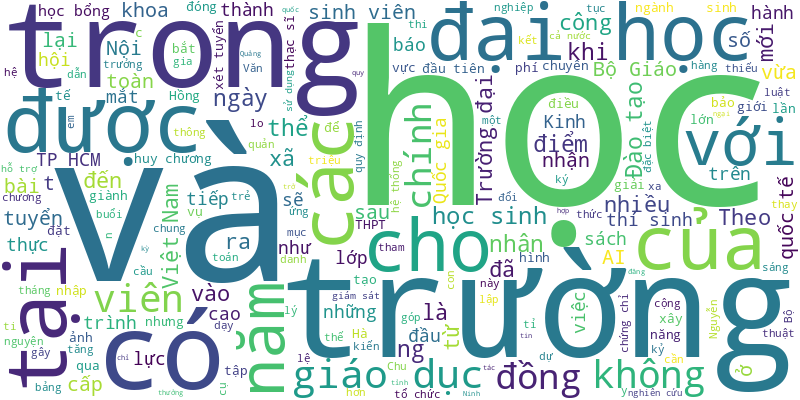
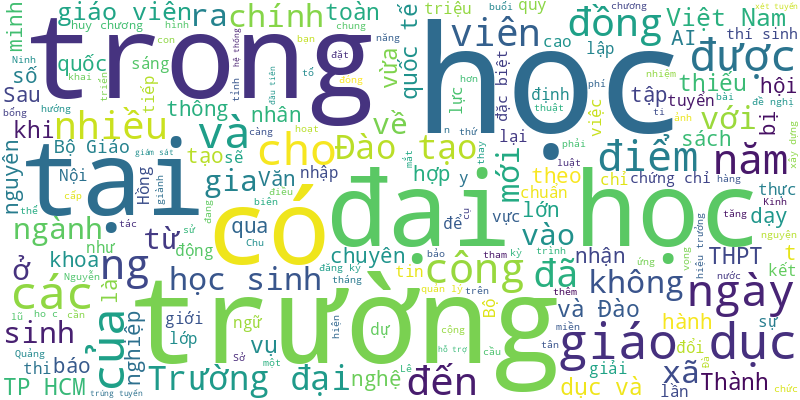
🍀 = 80%

diff --git a/README.md b/README.md
@@ -1,6 +1,20 @@
 # Tuoi Tre RSS 
 
 ## Giáo dục 
+- Trong 3 ngày từ khi báo Tuổi Trẻ khởi động chương trình học bổng Tiếp sức đến trường năm 2025, không khí thật sôi động khi nhiều trường đại học ngay lập tức liên hệ báo để ủng hộ tân sinh viên nghèo.
+- Bí thư Thành ủy Đà Nẵng Nguyễn Văn Quảng cho biết hiện thành phố đang triển khai xây dựng 6 trường cho các xã miền núi giáp biên giới, và đề nghị ngành giáo dục cần đến học tập mô hình quản lý của Trường Hy Vọng.
+- Thứ trưởng Bộ Giáo dục và Đào tạo Hoàng Minh Sơn đã trao quyết định công nhận tiến sĩ Lê Minh Chiến giữ chức hiệu trưởng Trường đại học Đà Lạt nhiệm kỳ 2024-2029.
+- Ngày 8-8, ông Nguyễn Văn Hiếu, giám đốc Sở Giáo dục và Đào tạo TP.HCM, đã có chỉ đạo về dạy thêm, học thêm trong năm học mới 2025-2026.
+- Ngày 8-8, chàng trai vàng Lê Kiến Thành đã trở về Quy Nhơn trong sự chào đón nồng nhiệt của lãnh đạo Sở Giáo dục và Đào tạo tỉnh Gia Lai, các thầy cô Trường THPT chuyên Lê Quý Đôn và bè bạn.
+- Vụ Giáo dục đại học (Bộ Giáo dục và Đào tạo) đã gửi thông tin về minh chứng chứng chỉ ngoại ngữ quốc tế không phù hợp, để các trường đại học có thí sinh đăng ký biết.
+- Các ngành dược học, y học cổ truyền, y khoa, công nghệ thông tin... của Trường đại học Kinh Bắc (Bắc Ninh) vừa bị xử phạt hành chính 30 triệu đồng/ngành và đình chỉ hoạt động đào tạo trong 9 tháng.
+- Các trường đại học (ĐH) lớn tại khu vực miền Trung - Tây Nguyên đã cùng nhau ký kết hợp tác thành lập Mạng lưới các cơ sở giáo dục đại học tại miền Trung - Tây Nguyên vào ngày 24-7-2025 vừa qua tại Đại học Duy Tân.
+- Càng đến gần thời điểm các trường công bố điểm chuẩn trúng tuyển, nhiều dự đoán khác nhau về điểm chuẩn được đưa ra, trong đó có nhiều tổ hợp, nhiều ngành sẽ có biến động về điểm trúng tuyển.
+- Không phải công nghệ cao hay nguyên liệu đắt tiền, một ý tưởng khởi nghiệp từ chính phế phẩm nông nghiệp - vỏ thanh long - lại đang mở ra hướng đi mới cho ngành nông nghiệp bền vững.
+- Sau sáp nhập, TP.HCM thiếu 4.865 giáo viên từ mầm non đến THPT. Đặc biệt, tình trạng thừa - thiếu giáo viên cục bộ vẫn còn tồn tại.
+- Sau trận lũ lịch sử, trường học ở xã biên giới Mỹ Lý, Nghệ An bên dòng Nậm Nơn như bị xóa sổ hoàn toàn trước thềm năm học mới.
+- Hội nghị triển khai phong trào 'Cả nước thi đua đổi mới sáng tạo và chuyển đổi số' và 'Bình dân học vụ số' ngành giáo dục diễn ra ngày 7-8.
+- Nhiều trường đại học lo ngại chứng chỉ quốc tế thí sinh khai báo trên hệ thống chung của Bộ GD-ĐT không hợp lệ sẽ ảnh hưởng lớn đến công tác tuyển sinh của trường.
 - Theo quy định của Trường đại học Kinh tế - Luật (Đại học Quốc gia TP.HCM), thí sinh có chứng chỉ IELTS 5.0 trở lên đăng ký xét tuyển vào trường sẽ được cộng điểm thưởng.
 - Ngày 7-8, tỉnh Quảng Ninh tổ chức tuyên dương, khen thưởng cho học sinh và giáo viên dạy học sinh đoạt huy chương đồng tại kỳ thi Olympic tin học quốc tế lần thứ 37, diễn ra từ ngày 27-7 đến 3-8 tại Bolivia.
 - Đội Hồng Bàng 4 của Trường THCS Hồng Bàng, phường Chợ Lớn, TP.HCM đã xuất sắc giành giải vô địch bảng B2 vòng chung kết toàn quốc Giải Robotacon Wro 2025, giành vé tham dự giải thế giới tại Singapore vào tháng 11.
@@ -37,74 +51,64 @@
 - Học bổng ngăn dòng học sinh vùng lũ Nghệ An bỏ học đến với các em khi nước lũ vừa rút, tiếp thêm động lực cho các em tới trường tìm con chữ.
 - Theo Bộ Giáo dục - Đào tạo, cả nước cần khoảng 6.000 cán bộ giáo dục cấp xã sau khi tổ chức lại chính quyền hai cấp.
 - Đại học Quốc gia TP.HCM dẫn đầu bảng xếp hạng với 850 bài báo nghiên cứu WoS, đóng góp 13,18% vào thành tựu bài báo nghiên cứu khoa học của cả nước trong nửa đầu năm 2025.
-- Sau hành trình nỗ lực bền bỉ, Nguyễn Khánh Linh (23 tuổi) đã xuất sắc nhận 4 học bổng thạc sĩ tại châu Âu, trong đó có 3 suất toàn phần từ các trường danh tiếng như Wageningen, Groningen (Hà Lan) và BI Norwegian Business School (Na Uy).
-- Trong khi các thí sinh còn chưa hoàn tất thủ tục nộp lệ phí xét tuyển, một số đại học đã gửi “thư mời nhập học” từ giữa tháng 7-2025.
-- Ngoài thu nhận được những kiến thức, kỹ năng và các mối quan hệ mới, mỗi sinh viên còn góp phần lan tỏa hình ảnh đẹp, trẻ trung của Việt Nam ra quốc tế trong từng chuyến đi.
-- Nguyễn Hoàng Yến giành học bổng thạc sĩ Fulbright để theo đuổi ngành bảo tồn kiến trúc tại Mỹ sau hành trình rẽ lối đầy bất ngờ từ y khoa sang kiến trúc.
-- 420 tỉ đồng sẽ được đầu tư xây 4 trường nội trú liên cấp ở vùng biên giới Đắk Lắk với Campuchia.
-- Tình trạng trẻ em sử dụng điện thoại xem các chương trình mạng và chơi game đang phổ biến khắp thế giới, thậm chí nhiều trẻ như "nghiện" cái màn hình nhỏ trên tay với các hệ lụy xấu nặng nề đến tâm sinh lý.
-- Năm học mới sắp gõ nhịp, tôi sẽ lại bắt gặp nỗi lo dâng trào, áp lực bài vở đong đầy nơi ánh mắt và lời thỏ thẻ của mấy bạn nhỏ lớp 6 ư?
-- Nhiều vụ “bắt cóc online” học sinh, sinh viên gây lo ngại khi kẻ xấu điều khiển nạn nhân từ xa, không cần tiếp xúc trực tiếp.
-- 21 sinh viên là những vận động viên thể thao môn karate, bóng chuyền, điền kinh, wushu... vừa được Trường đại học Kinh tế, Đại học Quốc gia Hà Nội trao bằng tốt nghiệp cử nhân quản trị kinh doanh dành cho các tài năng thể thao.
-- Năm học mới 2025-2026 tại nhiều trường cao đẳng trên cả nước đã chính thức bắt đầu.
-- Theo PGS.TS Hoàng Đình Phi, khi ra trường, tân cử nhân phải chấp nhận thực tế có thể không vui, có thể cay đắng, nhưng không được mải mê với những trò chơi online tẻ nhạt, không được để cho AI và mạng xã hội phá hoại tương lai của chính mình.
-- Bộ Giáo dục và Đào tạo vừa ‘siết’ quy định quy đổi điểm trúng tuyển đại học, nhưng các trường đại học cho rằng việc này không có ý nghĩa, ngược lại có thể gây bức xúc cho thí sinh.
-- Trong dịp kỷ niệm 10 năm thành lập, Trường đại học Khánh Hòa đặt mục tiêu trở thành trung tâm đào tạo, nghiên cứu chất lượng cao tại khu vực. Trước mắt trường mở ngành đào tạo thạc sĩ đầu tiên là ngành toán học.
-- Văn hóa trong dạy học toán là một khái niệm ít được nhắc đến, nay được các nhà toán học phân tích, thảo luận trong một tọa đàm do Viện Nghiên cứu cao cấp về toán tổ chức ngày 2-8.
 ![Edu](Edu.png)
 ## Thời Sự 
-- Trong khi các tuyến đường sắt và metro kết nối vẫn còn trong giai đoạn nghiên cứu và chuẩn bị đầu tư, những tuyến cao tốc và đường vành đai đang thi công cần về đích đúng thời hạn để kết nối sân bay.
-- Trung tâm Quản lý giao thông công cộng TP.HCM đề xuất 6 tuyến buýt điện tại đặc khu Côn Đảo để thêm sự lựa chọn đi lại cho người dân và bảo vệ môi trường, đặc biệt hướng đến mục tiêu phát triển giao thông xanh.
-- Tin tức đáng chú ý: Dự báo chứng khoán lên 1.600 - 1.650 điểm trong tháng 8; Nhiều lãnh đạo cấp cao Vinaconex ITC đồng loạt từ nhiệm; Đề xuất 9 trường hợp miễn thu phí bảo vệ môi trường đối với nước thải...
-- Không chỉ giá cả cạnh tranh, các nhà thu mua còn chú trọng đến năng lực sản xuất dài hạn, khả năng linh hoạt cung ứng, độ tin cậy của doanh nghiệp...
-- Hôm nay 8-8, thời tiết Bắc Bộ và Trung Bộ ngày nắng. Nam Bộ mưa trở lại sau đợt hạn bà chằn, Biển Đông có áp thấp.
-- Nhiều văn kiện hợp tác đã được ký kết giữa các bộ, ngành Việt Nam và Angola dưới sự chứng kiến của Chủ tịch nước Lương Cường và Tổng thống Angola João Manuel Gonçalves Lourenço.
-- Giá gạo tiêu chuẩn 5% tấm Việt Nam tăng lên 391 USD/tấn, vì lệnh cấm nhập khẩu từ Philippines.
-- Một nam thanh niên 33 tuổi đã may mắn được đội ngũ bác sĩ cứu sống ngoạn mục sau khi ngưng tim đột ngột ngay trong lúc chờ khám bệnh tại Bệnh viện Đa khoa Trung ương Quảng Nam, được xuất viện sau nửa tháng điều trị.
-- Trong mấy ngày qua, theo Sở Nội vụ tỉnh Khánh Hòa, số lượng hồ sơ đề nghị giải quyết chính sách, chế độ cho cán bộ, công chức ở tỉnh nghỉ việc là “rất lớn, tăng đột biến”. Sở đề nghị tỉnh kịp thời có chỉ đạo, chấn chỉnh.
-- Phát hiện chủ tàu cá tàng trữ chất độc xyanua, Đồn Biên phòng Côn Đảo đã phối hợp công an, viện kiểm sát xử lý.
-- Cuộc thi trên là khởi đầu cho việc đầu tư đường trục chính đô thị tốc độ nhanh, chính là dự án cầu đường Bình Tiên nối từ phường Bình Tiên đến xã Bình Hưng.
-- Cơ quan chức năng đã xác định ba người có độ tuổi từ 12 đến 15 tham gia đánh đập dã man cháu L.N.N. (14 tuổi) tại xã Trần Đề, thành phố Cần Thơ.
-- Việc ứng dụng AI không thay thế con người, mà là công cụ hỗ trợ chuyên gia đánh giá và thẩm định đưa ra quyết định có cơ sở, khách quan và tiết kiệm chi phí hơn.
-- Đồng Nai dự kiến đầu tư hơn 16.000 tỉ đồng làm đường trên cao dọc quốc lộ 51, để giảm tải ùn tắc ở đô thị trung tâm.
-- Thông qua VNeID, nhà đầu tư chứng khoán có thêm phương thức xác thực danh tính trên hệ thống định danh điện tử quốc gia.
-- 3 ngày kể từ khi mất tích, lực lượng chức năng vẫn chưa tìm được tung tích nam thanh niên leo núi Hoàng Ngưu Sơn (phường Nam Nha Trang, Khánh Hòa).
-- Đề xuất cấm xe giường nằm theo lộ trình bởi loại xe này thiếu an toàn đã nhận được sự quan tâm, tranh luận của nhiều người.
-- Cầu Rạch Miễu 2 đang được hoàn tất những công đoạn cuối cùng, dự kiến ngày 12-8 họp Hội đồng kiểm tra công tác nghiệm thu và ngày 19-8 sẽ được bàn giao cho tỉnh Đồng Tháp và tỉnh Vĩnh Long để khánh thành, đưa vào khai thác.
-- Bộ Công an đặt yêu cầu bảo đảm an ninh trật tự các hoạt động kỷ niệm dịp 80 năm Cách mạng Tháng Tám và Quốc khánh 2-9 ở mức độ cao nhất.
-- Tỉnh Đắk Lắk hiện thiếu gần 700 biên chế giáo viên và nhân viên trong toàn ngành giáo dục, gây khó khăn lớn cho công tác chuẩn bị năm học 2025 - 2026.
-- Xã Măng Ri, Quảng Ngãi huy động tổng lực hàng trăm cán bộ, lực lượng tình nguyện băng rừng vượt núi giúp người dân khôi phục vườn sâm Ngọc Linh bị mưa to gió lớn do ảnh hưởng của bão số 3 làm hư hại.
-- Thứ trưởng Bộ Nông nghiệp và Môi trường Hoàng Trung cho biết bộ đang xây dựng dự thảo Luật sửa đổi, bổ sung một số điều của Luật Đất đai để trình Quốc hội tại kỳ họp tháng 10 tới.
-- Tỉnh Điện Biên vừa có tờ trình gửi Thủ tướng, đề nghị Chủ tịch nước xem xét, tặng Huân chương Lao động hạng nhất cho Trưởng bản Mùa A Thi vì hành động dũng cảm cứu hơn 90 người dân thoát khỏi lũ quét.
-- Trước tình hình lượng máu hiến tặng sụt giảm gây ảnh hưởng đến công tác điều trị tại các bệnh viện và trung tâm y tế, Sở Y tế TP.HCM kêu gọi người dân hiến máu cứu người.
-- Công an đang điều tra vụ bé gái 7 tuổi đến tắm tại hồ bơi tư nhân ở Đồng Nai và không may bị chết đuối.
-- Ngày 13-8 tới đây, TP.HCM sẽ khởi công xây dựng mới cầu Hiệp Ân 2 - gói thầu xây lắp thứ 2 của dự án bờ bắc kênh Đôi, khởi động dự án chỉnh trang bờ bắc kênh Đôi.
-- Thiếu tướng Tống Văn Thanh thông tin về thời gian tổng hợp luyện lực lượng vũ trang, sơ duyệt cấp nhà nước, tổng duyệt cấp nhà nước và buổi lễ chính thức diễu binh, diễu hành kỷ niệm 80 năm Quốc khánh.
-- 500 tỉ đồng từ ngân sách trung ương và nguồn thu, tiết kiệm chi của tỉnh được Nghệ An ưu tiên khắc phục hậu quả thiệt hại mưa lũ do cơn bão số 3 (bão Wipha).
-- Một vùng áp thấp từ phía đảo Luzon, Philippines di chuyển vào Biển Đông, cơ quan khí tượng đang theo dõi.
-- Cần rà soát những cán bộ, công chức nào trong quá trình sắp xếp, sáp nhập các đơn vị hành chính gặp khó khăn về chỗ ở thì phải được ưu tiên.
-- 50 bạn đọc thân thiết đã có dịp lần đầu tham quan tòa soạn báo Tuổi Trẻ, lắng nghe câu chuyện làm báo và chia sẻ tình cảm gắn bó suốt nhiều năm.
-- Ngày 7-8, 1 con cá voi lớn xuất hiện săn mồi tại khu vực biển gần Hòn Mun (vịnh Nha Trang). Cuối tháng 7-2025, 1 con cá voi lớn cũng săn mồi mấy ngày trong vịnh này.
-- Ngày 7-8, Đảng bộ phường Trấn Biên đã tổ chức Đại hội đại biểu lần thứ I, nhiệm kỳ 2025-2030. Đại hội đặt ra mục tiêu phát triển phường Trấn Biên trở thành đô thị trung tâm, văn minh, hiện đại của tỉnh Đồng Nai.
-- Một phó giám đốc thuộc Ban quản lý Khu kinh tế Quảng Ninh gây tai nạn giao thông liên hoàn, vi phạm nồng độ cồn ở mức 0,8mg/lít khí thở.
-- HĐND tỉnh Thái Nguyên vừa bỏ phiếu, nhất trí bầu ông Bùi Văn Lương giữ chức phó chủ tịch UBND tỉnh Thái Nguyên.
-- Ngày 7-8, Tổng Bí thư Tô Lâm và nhiều lãnh đạo, nguyên lãnh đạo đã dự Đại hội Đảng bộ Văn phòng Trung ương Đảng nhiệm kỳ 2025-2030.
-- Công an TP Đà Nẵng vừa bắt giữ đối tượng truy nã đặc biệt nguy hiểm sau 34 năm bỏ trốn.
-- Đến nay có 32 hộ dân tự nguyện giao đất để thực hiện dự án nâng cấp và mở rộng Cảng hàng không quốc tế Phú Quốc đón APEC 2027.
-- Phòng kiểm tra chuyên ngành Sở Xây dựng TP.HCM vừa có thông báo phân công nhiệm vụ cho 30 đội nghiệp vụ kiểm tra xử lý vi phạm giao thông, xây dựng ở TP.HCM.
-- Sau nhiều năm dùng máy phát điện diesel, đặc khu Côn Đảo (TP.HCM) sắp chính thức hòa vào lưới điện quốc gia vào ngày 2-9 tới.
-- Ngày 7-8, Đảng bộ xã Thường Phước tổ chức Đại hội đại biểu lần thứ I, nhiệm kỳ 2025-2030. Đây là xã đầu tiên tổ chức đại hội của tỉnh Đồng Tháp, đồng thời là xã vùng biên giới, có cửa khẩu quốc tế đường bộ và đường sông tiếp giáp với Campuchia.
-- Lần đầu tiên tại Việt Nam, trí tuệ nhân tạo (AI), ảnh vệ tinh và hình ảnh Street View được giới thiệu như công cụ kỹ thuật trong đánh giá mức độ an toàn giao thông khu vực trường học.
-- Ban Thường vụ Thành ủy TP.HCM xác định nâng mức hỗ trợ và đơn giản hóa thủ tục đầu tư, hỗ trợ về nhà ở xã hội là những giải pháp bảo đảm mục tiêu phát triển nhà ở xã hội.
-- TP.HCM chỉ đạo rà soát, giảm giá vé BOT cho xe ở vùng giáp ranh sau khi sáp nhập địa giới hành chính.
-- Chủ đầu tư đường cao tốc Bến Lức - Long Thành thông báo từ 0h ngày 10-8-2025 sẽ thu phí dịch vụ sử dụng đường bộ tuyến cao tốc này với 2.000 đồng/PCU/km.
-- Phường Tam Thắng, TP.HCM, vừa có văn bản thông báo dừng thu tiền mặt các khoản thuế, phí, xử phạt hành chính.
-- Bộ Văn hóa, Thể thao và Du lịch đã nêu ra nhiều giải pháp quan trọng để ngăn chặn, xử lý các trường hợp cá nhân, người nổi tiếng quảng cáo sai sự thật.
-- Sáng 7-8, Đảng uỷ, HĐND, UBND UBMTTQ Việt Nam phường Xuân Hòa phối hợp với Tổng công ty Cấp nước Sài Gòn TNHH MTV Sawaco khởi công các trụ uống nước tại vòi trên đường phố phục vụ người dân.
-- Công an hai phường ở Đà Nẵng vừa làm rõ một vụ trộm cắp tài sản khá hy hữu, khi một nghi phạm trộm điện thoại của một… kẻ trộm khác. Đáng chú ý, chiếc điện thoại này cũng chính là tài sản mà “nạn nhân” đã ra tay trộm từ một người khác trước đó.
-- Gần 200 chuyên viên phụ trách lĩnh vực văn hóa, thể thao TP.HCM tham dự Hội nghị tập huấn, bồi dưỡng nghiệp vụ công tác văn hóa, thể thao năm 2025.
+- Nhiều tuyến đường tại Đà Nẵng dần biến thành “bãi đậu xe”, khiến việc đi lại hằng ngày của người dân gặp không ít khó khăn và tiềm ẩn nguy cơ xảy ra tai nạn.
+- Dừng đèn đỏ, người tranh thủ lướt mạng, người vẫn dán mắt vào điện thoại dù đèn xanh đã bật. Một số tài xế xe khách vẫn "tám chuyện" nhiều phút, nhiều cuộc khi cầm lái... Những chuyện này đang hằng ngày đe dọa an toàn giao thông.
+- Một số tin tức đáng chú ý: Khối ngoại bán ròng 800 tỉ đồng trên thị trường chứng khoán; Chưa đến 10% doanh nghiệp nhỏ và vừa tiếp cận được vốn vay; Phạt tới 75 triệu đồng với hành vi mua, bán trái phép quân hiệu, quân phục...
+- Hôm nay 9-8, các tỉnh thành thời tiết nắng đến nắng nóng, có nơi nắng nóng gay gắt, trên Biển Đông áp thấp nhiệt đới gây mưa dông.
+- Giữa cái nắng như thiêu đốt của mùa hè miền Bắc, khu vực trường đua F1 (cạnh sân vận động quốc gia Mỹ Đình, Hà Nội) bỗng rộn ràng tiếng hát của những ca sĩ, nghệ sĩ đặc biệt.
+- Ông Nguyễn Trọng Nghĩa, ủy viên Bộ Chính trị, trưởng Ban Tuyên giáo và Dân vận Trung ương, đã dâng hương tưởng niệm tại Đền thờ Bác Hồ và một số “địa chỉ đỏ” ở Quảng Trị.
+- Bí thư Thành ủy Đà Nẵng Nguyễn Văn Quảng cho biết hiện thành phố đang triển khai xây dựng 6 trường cho các xã miền núi giáp biên giới, và đề nghị ngành giáo dục cần đến học tập mô hình quản lý của Trường Hy Vọng.
+- Chiếc xe khách mang biển số của nước Lào chở 1 tấn sụn chân gà bốc mùi hôi thối đang trên đường về TP Đà Nẵng để tiêu thụ thì bị phát hiện, chặn lại ở Huế.
+- Ngày 8-8, phường Bình Phước, tỉnh Đồng Nai đã tổ chức Đại hội đại biểu lần thứ I, nhiệm kỳ 2025-2030.
+- Phát hiện người phụ nữ có biểu hiện không bình thường rồi nhảy sông tự tử, hai thanh niên tại xã Lệ Thủy (Quảng Trị) đã không ngại nguy hiểm lao xuống cứu.
+- Sau khi vượt qua khó khăn mặt bằng, dự án vành đai 3 TP.HCM đoạn qua tỉnh Đồng Nai đang bứt tốc.
+- Tổng Bí thư Tô Lâm cho rằng Cảnh sát hình sự xứng đáng là 'quả đấm thép' của lực lượng Công an nhân dân trên lĩnh vực đấu tranh phòng, chống tội phạm.
+- Tối 8-8, Công an phường Xuân Hòa đã đưa tài xế ô tô công nghệ rút chìa khóa xe máy của hai cô gái tại vòng xoay hồ Con Rùa rồi bỏ đi về trụ sở làm việc.
+- Philippines - thị trường chiếm tới 40-45% kim ngạch xuất khẩu gạo của Việt Nam - vừa thông báo tạm dừng nhập khẩu 60 ngày từ 1-9 để bảo vệ nông dân nội địa. Hiệp hội Lương thực Việt Nam cảnh báo hàng loạt hợp đồng bị đình trệ, tồn kho, giá giảm.
+- Logo kỷ niệm 50 năm thành lập báo Tuổi Trẻ xuất hiện trên các tuyến đường trung tâm của miền Tây như TP Cần Thơ, tỉnh Vĩnh Long, An Giang.
+- Phạm Thị Ngọc đã "nổ" có thể "chạy" thủ tục di dời ranh đất rừng để giúp ông K. làm giấy chứng nhận quyền sử dụng đất tại TP Phú Quốc. Ngọc đã cho ông K. xem 3 giấy có dấu mộc đỏ xác nhận của cơ quan chức năng để lừa đảo ông K. gần 6 tỉ đồng.
+- Từ ngày 1-1-2026, chính sách chúc thọ, mừng thọ người cao tuổi sẽ chính thức được áp dụng thống nhất trên toàn địa bàn TP.HCM.
+- Đại hội Đảng bộ phường Bình Thới nhiệm kỳ 2025-2030 xác định ưu tiên triển khai 2 dự án hạ tầng lớn, thúc đẩy phát triển đô thị.
+- Ngửi được mùi hôi khó chịu bốc ra, nhân viên và bảo vệ một ngân hàng ở Nghệ An tá hỏa khi phát hiện một người đàn ông đã chết.
+- Năm đại tướng của Quân đội nhân dân Việt Nam sẽ có bài tham luận tại hội thảo khoa học "Bộ Tổng tham mưu Quân đội nhân dân Việt Nam - 80 năm xây dựng, chiến đấu và trưởng thành, vững bước tiến vào kỷ nguyên mới của dân tộc".
+- Cử tri các phường trung tâm TP.HCM cho rằng sau khi giải thể lực lượng trật tự đô thị, tình trạng lấn chiếm lòng đường, vỉa hè đang tái diễn, phức tạp hơn.
+- Đây là một trong những nội dung được đơn vị tư vấn đề xuất tại buổi nghe báo cáo giải pháp chuyển đổi giao thông xanh ở Côn Đảo và Cần Giờ (cũ); đề án kiểm soát khí thải phương tiện giao thông TP.HCM sáng 8-8.
+- Theo chuyên gia khí tượng, lập thu không phải là cột mốc xác định sự kết thúc của mùa hè. Thực tế, sau lập thu, ở miền Bắc và miền Trung nước ta vẫn ghi nhận các đợt nắng nóng gay gắt.
+- Công trình chỉnh trang Bãi Sau, TP.HCM đang đẩy nhanh tiến độ để kịp chào đón du khách, người dân trong dịp đại lễ 80 năm Quốc khánh 2-9.
+- Một ngư dân ở Đà Nẵng đi câu cá ngoài biển nhưng không thấy về, chiếc thuyền cũng trôi dạt vào bờ có giấy tờ tùy thân của người này.
+- Phó thủ tướng Trần Hồng Hà trực tiếp họp để lắng nghe và chỉ đạo tháo gỡ khó khăn trong hoạt động chính quyền 2 cấp.
+- Sân khấu, khán đài 30.000 chỗ ngồi được lắp đặt tại quảng trường Ba Đình phục vụ Lễ kỷ niệm 80 năm Cách mạng tháng Tám và Quốc khánh 2-9.
+- Đó là khẳng định của ông Bùi Hòa An - phó giám đốc Sở Xây dựng TP.HCM - tại buổi nghe báo cáo giải pháp chuyển đổi giao thông xanh ở Côn Đảo và Cần Giờ (cũ); đề án kiểm soát khí thải phương tiện giao thông trên địa bàn vào sáng 8-8.
+- Hàng chục chiến sĩ cảnh sát phòng cháy, chữa cháy đội nắng chang chang để dập tắt đám cháy xảy ra ở khu vực thuộc trung tâm hỏa táng An Phước Viên (Đà Nẵng).
+- Số điện thoại đường dây nóng 0907.793.789 của giám đốc Công an tỉnh Đồng Tháp được công bố công khai để người dân phản ảnh liên quan đến tình hình an ninh, trật tự, các hành vi vi phạm pháp luật.
+- Trên 1,5 triệu người từ 75 tuổi không có lương hưu, trợ cấp sẽ được nhận 500.000 đồng/tháng và thẻ bảo hiểm y tế miễn phí, vậy điều kiện là gì?
+- Đó là một trong những gợi mở chính sách được Tổng Bí thư Tô Lâm nêu trong Lễ kỷ niệm 80 năm Ngày truyền thống ngành tài chính, do Bộ Tài chính tổ chức ngày 8-8 tại Hà Nội.
+- Hướng đến đại hội đảng bộ các cấp, phường Sài Gòn, TP.HCM đăng ký 54 công trình trong đợt thi đua cao điểm 100 ngày. Nhiều công trình được đánh giá là sát với nhu cầu cuộc sống người dân.
+- Xã Trà Leng, TP Đà Nẵng, nơi từng xảy ra thảm họa sạt lở núi khiến nhiều người chết, mất tích cách đây 5 năm, đã phát động ủng hộ người dân tỉnh Nghệ An khắc phục hậu quả thiên tai.
+- Từ 11-8, Hà Nội sẽ triển khai tiếp nhận 100% hồ sơ theo hình thức trực tuyến đối với thủ tục hành chính của một số lĩnh vực thuộc phạm vi chức năng quản lý nhà nước của Sở Y tế.
+- Qua thống kê sơ bộ, công an đã thu giữ hơn 100kg cỏ Mỹ đã được phun tẩm ma túy, 500g chất bột màu vàng (nghi là ma túy) cùng nhiều tang vật khác có liên quan.
+- Ngày 8-8, thành phố Hà Nội chính thức ra mắt nền tảng số ‘A80 - Tự hào Việt Nam’, bao gồm website tại địa chỉ https://a80.hanoi.gov.vn và ứng dụng di động 'A80 - Tự hào Việt Nam'.
+- Đoàn đại biểu Quốc hội TP.HCM tiếp tục là đầu mối kiến tạo thể chế, cầu nối niềm tin, hỗ trợ, tạo điều kiện cho thành phố đóng góp xứng đáng vào công cuộc phát triển nhanh và bền vững của đất nước.
+- Chủ tịch UBND TP.HCM Nguyễn Văn Được đã dự và phát biểu chỉ đạo tại Đại hội Đảng bộ đặc khu Côn Đảo lần thứ I, nhiệm kỳ 2025-2030.
+- Chở vị khách có biểu hiện bất thường như lời nói cộc cằn, thái độ hung hăng, hăm dọa, nghi "ngáo đá", tài xế Grab nhanh trí lái thẳng ô tô đến chốt, cầu cứu lực lượng cảnh sát giao thông.
+- Ông Hoàng Minh Tuấn Anh - nguyên bí thư quận 7 (cũ) - được chỉ định làm bí thư Đảng ủy phường Tân Hưng (TP.HCM mới) nhiệm kỳ 2025 - 2030.
+- Chủ tịch UBND TP Thủ Đức cũ Hoàng Tùng làm bí thư Đảng ủy, chủ tịch HĐND phường An Khánh nhiệm kỳ 2025-2030.
+- Trong lúc bối rối, gia đình du khách đã đến trạm cảnh sát giao thông tại Đà Lạt để nhờ đưa cháu bé đi cấp cứu.
+- Sau khi va chạm liên hoàn với 2 ô tô trên cầu Nhật Tân, tài xế xe mô tô phân khối lớn tử vong trên cầu Nhật Tân (Hà Nội), sáng 8-8.
+- Đại hội Đảng bộ phường An Khánh lần 1 đã đề ra trọng tâm nhiệm kỳ 2025 - 2030 là đầu tư xây dựng hạ tầng khu đô thị Thủ Thiêm, nhất là xây dựng và vận hành thành công Trung tâm tài chính quốc tế tại Thủ Thiêm.
+- Từ 0h ngày 18-8 tới, Bamboo Airways sẽ chuyển toàn bộ hoạt động khai thác các chuyến bay nội địa từ nhà ga T1 sang nhà ga T3, Cảng hàng không quốc tế Tân Sơn Nhất (TP.HCM).
+- Ngày 8-8, Đảng bộ phường Bình Thạnh (TP.HCM) tổ chức đại hội đại biểu nhiệm kỳ 2025-2030. Ông Vũ Ngọc Tuất, nguyên bí thư Quận ủy quận Bình Thạnh cũ, được chỉ định làm bí thư Đảng ủy phường Bình Thạnh.
+- Trong trả lời cử tri, Tổng thanh tra Chính phủ Đoàn Hồng Phong đã nêu nhiều giải pháp quan trọng không để tình trạng cán bộ vừa quy hoạch, bổ nhiệm lại bị xử lý.
+- Sáng 8-8, Hội đồng nhân dân tỉnh Đồng Nai khóa X, nhiệm kỳ 2021 - 2026 đã tổ chức kỳ họp thứ 4 (chuyên đề) để bầu chức danh phó chủ tịch UBND tỉnh Đồng Nai.
+- Lần đầu tiên, sau màn duyệt binh tại quảng trường Đỏ (Matxcơva, Nga), 68 quân nhân Trường Sĩ quan Lục quân 1 sẽ tái hiện khoảnh khắc đầy tự hào tại sân vận động Mỹ Đình, Hà Nội.
 ![New](News.png)
 ## Nhịp sống số 
+- Công nghệ có thể truyền tải tri thức nhanh hơn, rẻ hơn. Nhưng khi AI trở thành 'thầy', liệu giá trị sáng tạo, trải nghiệm thực tế có đang bị thuật toán hóa thành những khuôn mẫu vô hồn?
+- Khi AI trả lời mọi thứ chỉ trong vài giây, người dùng không cần nhấp chuột truy cập trang web gốc. Điều này tạo ra cuộc khủng hoảng với các trang web sống nhờ lượt truy cập.
+- ChatGPT-5 biết ngắt lời, biết cười, thay đổi ngữ điệu và phản ứng linh hoạt theo từng tình huống... Người dùng có thể trò chuyện với nó bằng giọng nói mà không còn cảm giác bị trễ.
+- Hội nghị triển khai phong trào 'Cả nước thi đua đổi mới sáng tạo và chuyển đổi số' và 'Bình dân học vụ số' ngành giáo dục diễn ra ngày 7-8.
 - Không cần cao thủ công nghệ, kẻ xấu vẫn dễ dàng xem trộm camera nhà bạn nếu bạn quên làm điều này.
 - Meta quyết liệt trấn áp các trung tâm lừa đảo, triển khai công cụ bảo mật mới để bảo vệ người dùng khỏi những chiêu trò tinh vi.
 - Nhiều người thường nhầm lẫn Deep Web với Dark Web, nhưng hai khái niệm này hoàn toàn khác nhau.
@@ -151,8 +155,4 @@
 - Cảnh báo các chiêu lừa đảo qua điện thoại: giả danh ngân hàng, công an, điện lực để chiếm đoạt tài sản. Tuyệt đối không cung cấp OTP, mật khẩu, thông tin cá nhân và không chuyển tiền khi chưa xác minh.
 - Thứ trường Bộ KH&amp;CN Phạm Đức Long nhấn mạnh tại hội nghị tổ chức sáng nay ở Hà Nội.
 - Flow - công cụ AI cho các nhà làm phim vừa được Google cung cấp cho người dùng Việt Nam. Đồng thời Veo 3 hỗ trợ chuyển ảnh thành video.
-- Trước sự phát triển như vũ bão của trí tuệ nhân tạo (AI), làn sóng startup trỗi dậy mạnh mẽ, nhiều bóng hồng Việt không coi đó là thử thách mà chính là cơ hội để thể hiện rõ nét chính mình.
-- Một ứng dụng đặt xe container tích hợp thủ tục xuất nhập khẩu trong cùng một nền tảng logistics số lần đầu tiên được triển khai tại Việt Nam.
-- Bạn tạo ra dữ liệu và lưu nó lên cloud. Nhưng nếu một ngày bạn bị khóa quyền truy cập thì liệu dữ liệu ấy còn là của bạn nữa không?
-- Chatbot Grok của tỉ phú Musk bị chỉ trích vì có thể lan truyền ngôn từ thù địch thông qua dữ liệu huấn luyện và tài liệu tổng hợp của nó.
 ![life](Life.png)
